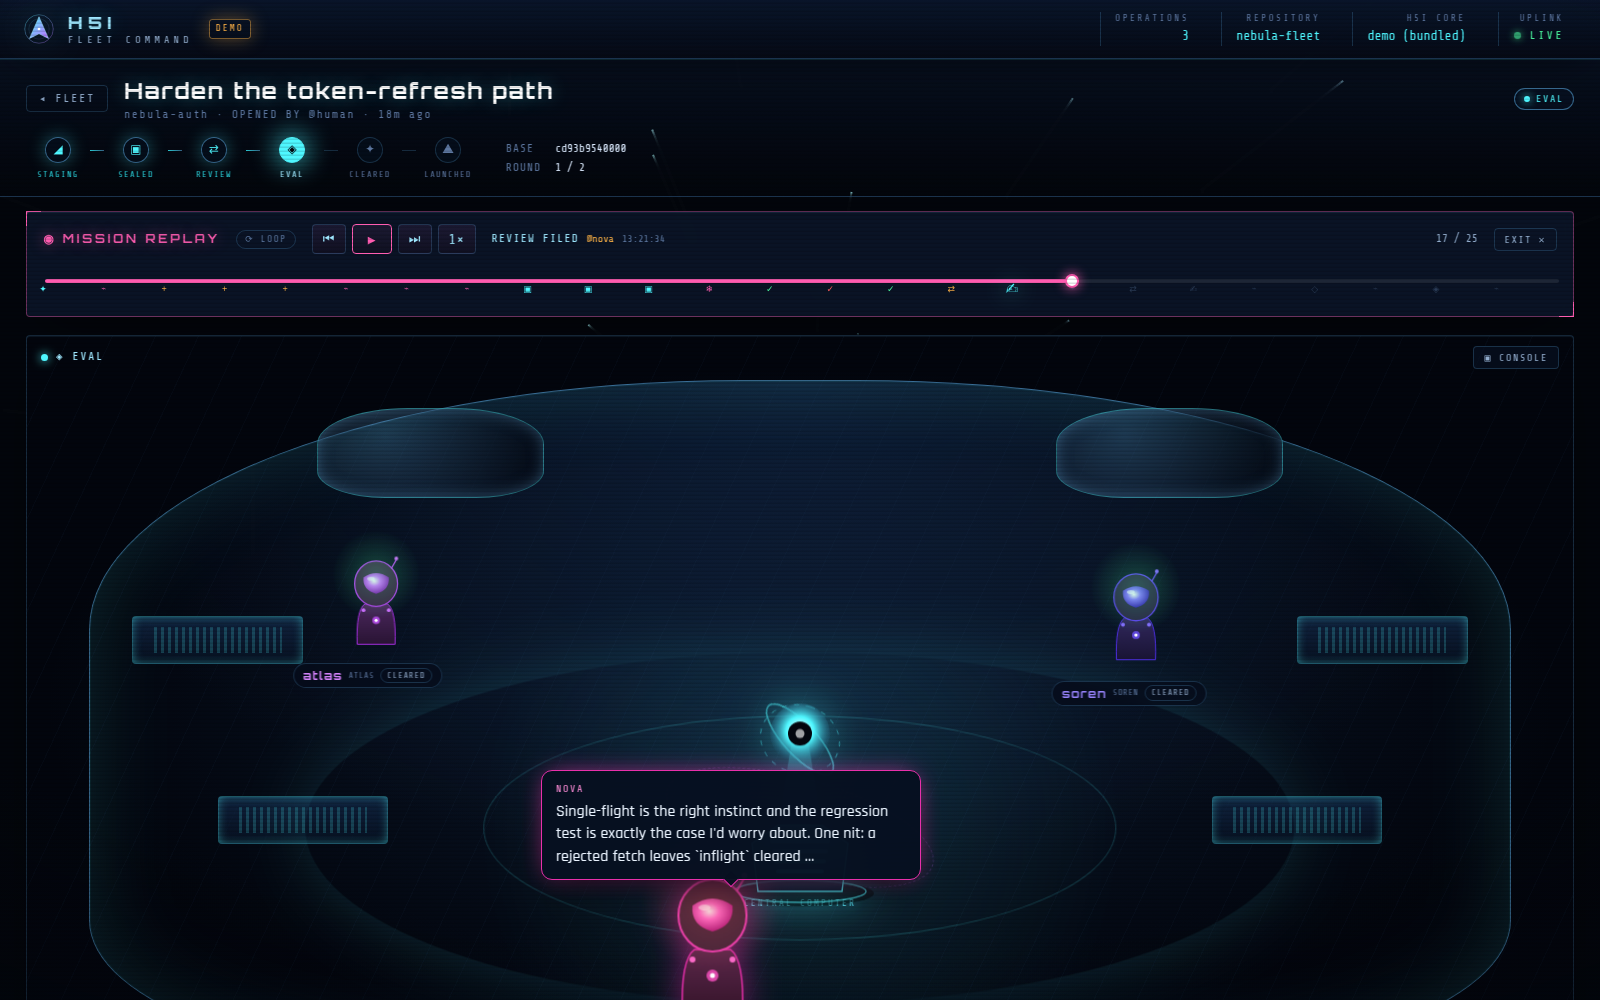
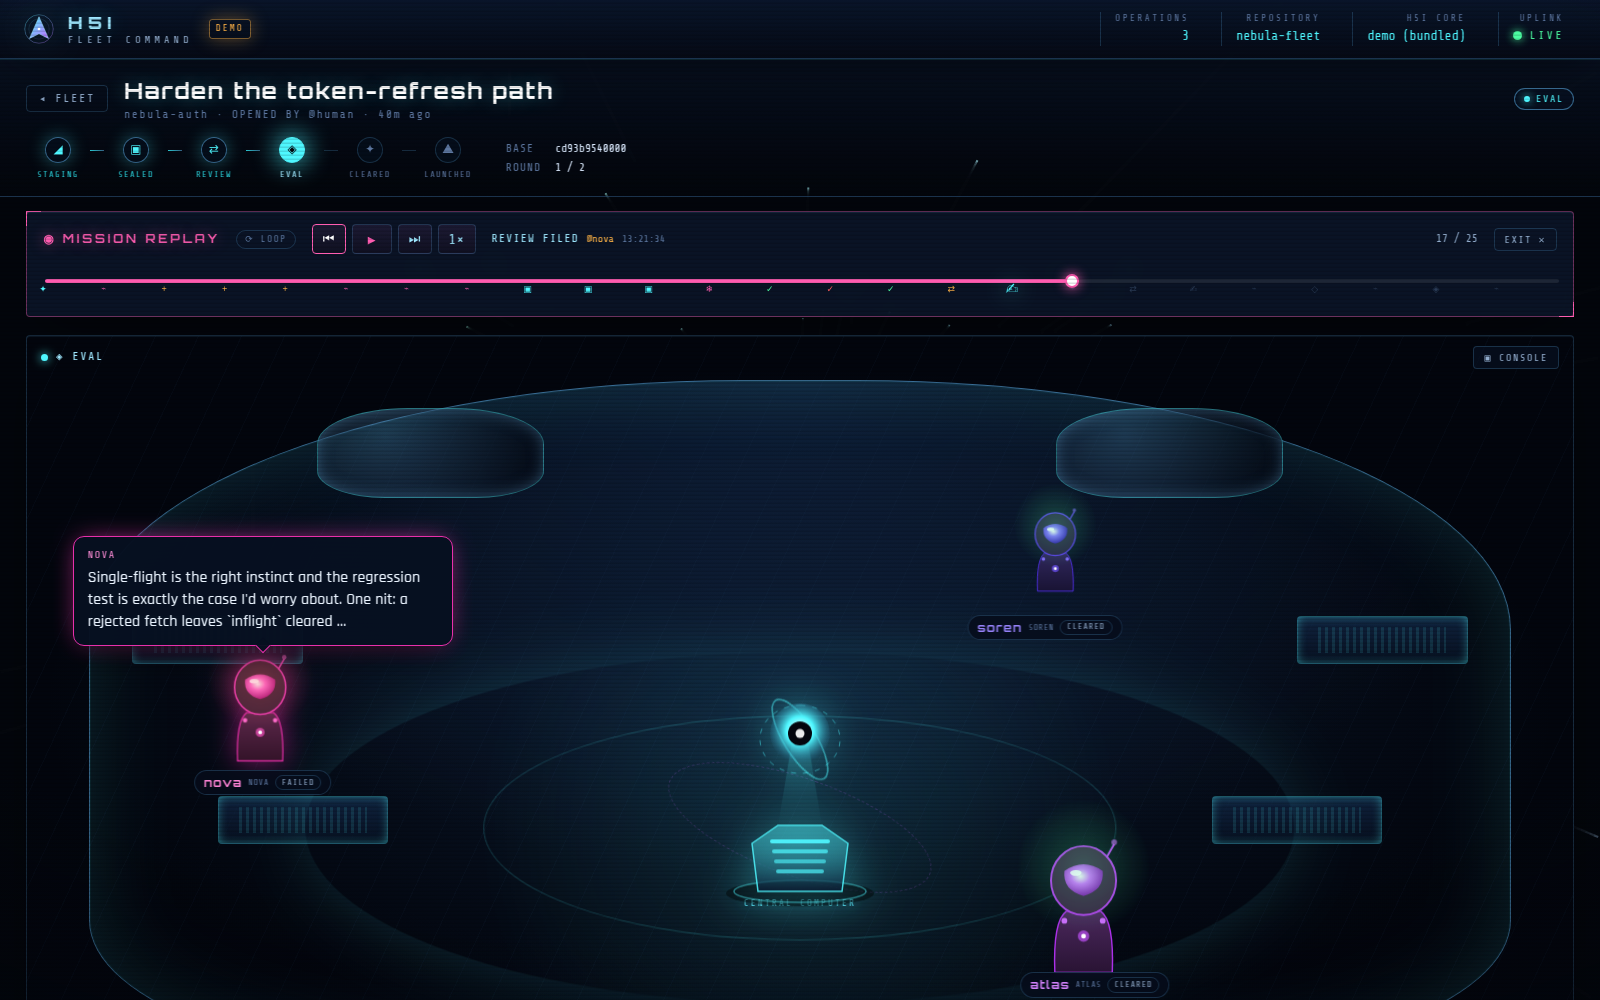
Keep the whole crew in the room for the entire performance
Per feedback: all agents should be present from the start. Replay reconstruction
seeded the roster from agent_added events, so early in the timeline the room was
half-empty as crew popped in.

- replay.ts: seed every roster agent up front (idle/working); events now only
  evolve each agent's posture (sealed/cleared/failed/winner) — nobody appears or
  disappears. The agent_added beat still narrates 'reporting for duty'.
- Bridge: switch crew layout from a full ring to left/right flanking arcs, so
  top-centre stays clear for the Director's bubble and bottom-centre clear for
  the central computer (no more clipped/overlapping bottom agent).

44 tests pass.

diff --git a/src/components/bridge/Bridge.tsx b/src/components/bridge/Bridge.tsx
@@ -30,19 +30,32 @@ export function Bridge({
   const beat = useMemo(() => computeBeat(detail, active, crew), [detail, active, crew]);
   const agents = detail.run.agents;
 
-  // Scatter the crew around the central computer — seats around a round table.
+  // Scatter the crew flanking the central computer — left & right arcs, leaving
+  // top-centre clear (Director's bubble) and bottom-centre clear (the computer).
   const placed = useMemo(() => {
     const n = agents.length || 1;
+    const rightCount = Math.ceil(n / 2);
+    const leftCount = n - rightCount;
+    let ri = 0;
+    let li = 0;
+    const deg = (d: number) => (d * Math.PI) / 180;
     return agents.map((a, i) => {
-      const jitterA = (hash01(a.agent_id + "a") - 0.5) * 0.45;
-      // Offset by half a slot so no one sits dead-top-centre (where the
-      // Director's speech bubble rises) — crew straddle the centre instead.
-      const ang = (i / n) * Math.PI * 2 - Math.PI / 2 + Math.PI / n + jitterA;
-      const jr = 0.82 + hash01(a.agent_id + "r") * 0.32;
-      const x = 50 + Math.cos(ang) * 31 * jr;
-      const y = 52 + Math.sin(ang) * 23 * jr;
-      const depth = Math.min(1, Math.max(0, (y - 28) / 50)); // 0 (back) .. 1 (front)
-      const scale = 0.72 + depth * 0.62;
+      let ang: number;
+      if (i % 2 === 0) {
+        const t = rightCount > 1 ? ri / (rightCount - 1) : 0.5;
+        ang = deg(-56 + t * 112); // right arc, around 0°
+        ri++;
+      } else {
+        const t = leftCount > 1 ? li / (leftCount - 1) : 0.5;
+        ang = deg(124 + t * 112); // left arc, around 180°
+        li++;
+      }
+      ang += (hash01(a.agent_id + "a") - 0.5) * 0.2;
+      const jr = 0.9 + hash01(a.agent_id + "r") * 0.2;
+      const x = 50 + Math.cos(ang) * 34 * jr;
+      const y = 50 + Math.sin(ang) * 23 * jr;
+      const depth = Math.min(1, Math.max(0, (y - 26) / 50)); // 0 (back) .. 1 (front)
+      const scale = 0.72 + depth * 0.58;
       return { agent: a, x, y, scale, z: Math.round(y * 12) };
     });
   }, [agents]);

diff --git a/src/lib/replay.ts b/src/lib/replay.ts
@@ -69,10 +69,14 @@ export function reconstruct(allEvents: TeamEvent[], liveRun: TeamRun, cursor: nu
  * messages): we pass only the events in the visible prefix.
  */
 export function reconstructFromEvents(visible: TeamEvent[], liveRun: TeamRun): TeamDetail {
-  const liveAgents = new Map(liveRun.agents.map((a) => [a.agent_id, a]));
   const liveVers = new Map(liveRun.verifications.map((v) => [v.id, v]));
 
-  const agents = new Map<string, TeamAgent>();
+  // The full crew is present in the room for the whole performance — seed every
+  // roster agent up front (idle/working). Events then evolve each one's posture
+  // (sealed / cleared / failed / winner); they never pop in or out.
+  const agents = new Map<string, TeamAgent>(
+    liveRun.agents.map((a) => [a.agent_id, { ...a, latest_submission_id: null, state: "working" }]),
+  );
   const subsByKey = new Map<string, TeamArtifact>(); // owner@round → latest
   const versById = new Map<string, TeamVerification>();
   let phase = "draft";
@@ -94,23 +98,8 @@ export function reconstructFromEvents(visible: TeamEvent[], liveRun: TeamRun): T
         createdAt = ev.ts;
         createdBy = ev.actor;
         break;
-      case "agent_added": {
-        const id = String(p.agent_id);
-        const live = liveAgents.get(id);
-        agents.set(id, {
-          agent_id: id,
-          env_id: String(p.env_id ?? live?.env_id ?? ""),
-          runtime: live?.runtime ?? null,
-          model: live?.model ?? null,
-          isolation_claim: String(p.isolation_claim ?? live?.isolation_claim ?? ""),
-          policy_digest: String(p.policy_digest ?? ""),
-          branch_ref: String(p.branch_ref ?? ""),
-          worktree_known_local: Boolean(p.worktree_known_local ?? true),
-          latest_submission_id: null,
-          state: String(p.state ?? "working"),
-        });
-        break;
-      }
+      // agent_added needs no roster change (all agents are seeded above); it
+      // still produces a "reporting for duty" beat via the performance layer.
       case "submitted": {
         const art = asArtifact(p);
         subsByKey.set(`${art.owner_agent}@${art.round}`, art);